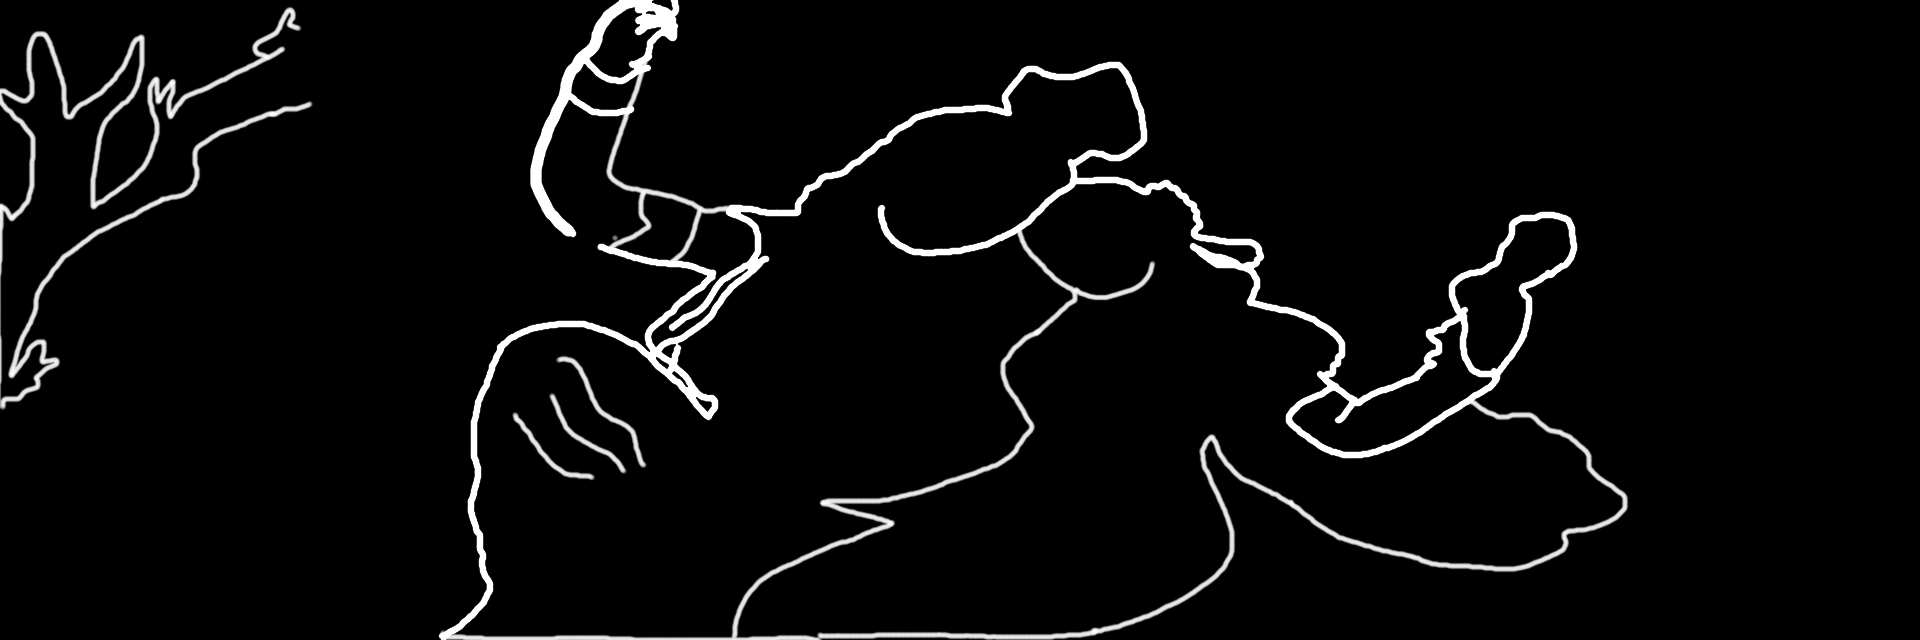
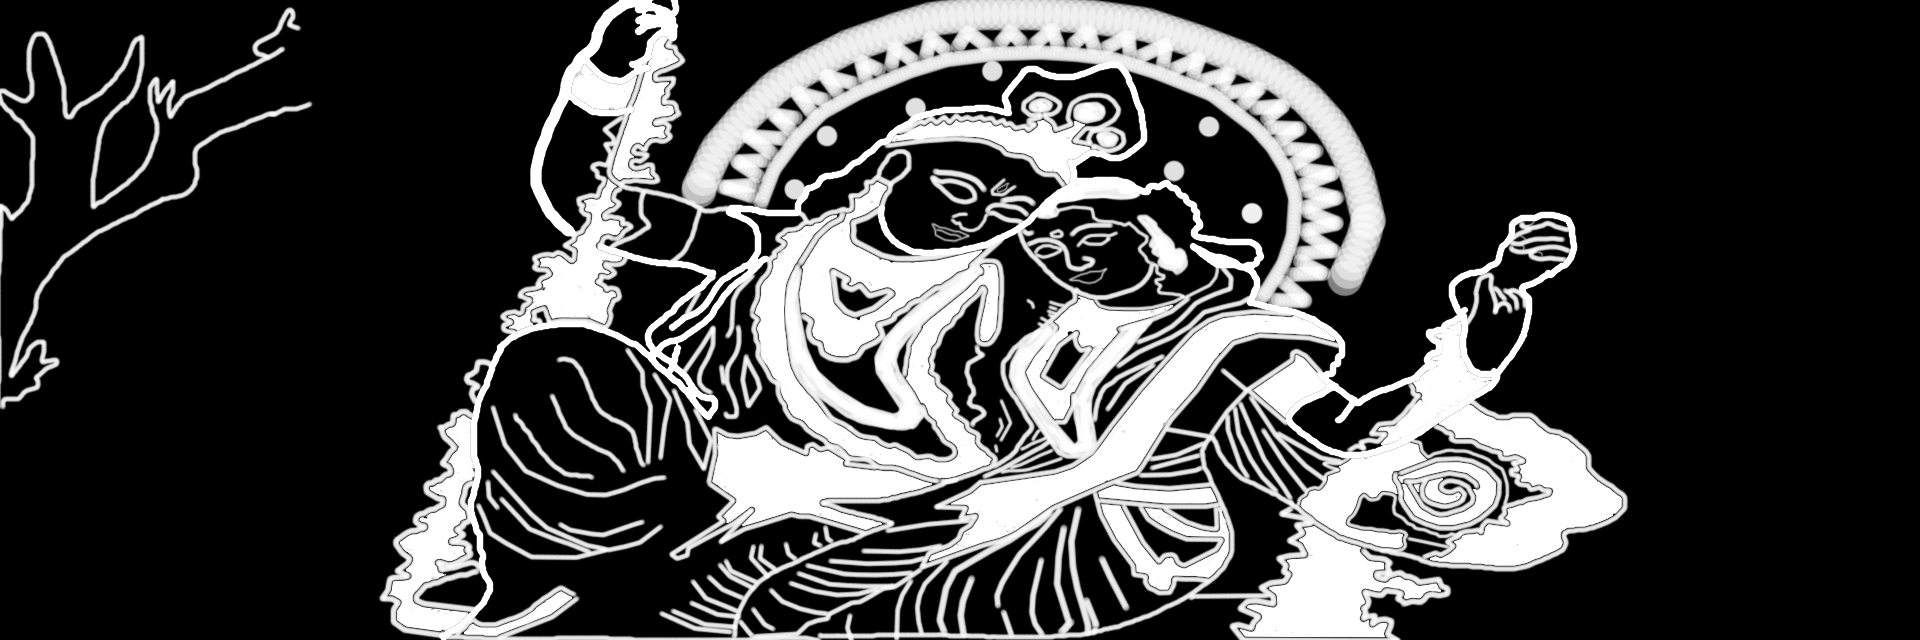
Progress for mask2
Adding more texture to mask2

Changed region(s): [[0.1875, 0.0, 0.8438, 1.0], [0.7812, 0.3438, 0.8125, 0.4062], [0.5938, 0.25, 0.625, 0.2812]]

diff --git a/README.md b/README.md
@@ -3,3 +3,5 @@
 For this problem set, I'm thinking of doing something based on tradition as I feel like it'll have more meaning compared to something that isn't. This relates back towards one of the universities main message on telling a story with heritage. So far, I've updated one of the photos, and will update the rest in the next session.
 
 Started doing my second image, quite happy with how it's looking currently. I figured out that I wanted to mask the textures on the 'saris' so that it makes it more clear for the user. This is potentially an image I'll be using for my final as I'm quite happy on how it looks on the page. Currently in terms of ideas, I'm still not entirely sure what my overall theme is, so I'm still gonna base my designs around Indian heritage until I decided of one. My next steps are to finish the masking texture on the second output, then start to think of some new ideas for the third image.
+
+Filling mask2 to get more detail on the small things. I need to play more with the shapes in this problem set and figure out if there's more to this problem set (for example more shapes or playing around with colour schemes). 
